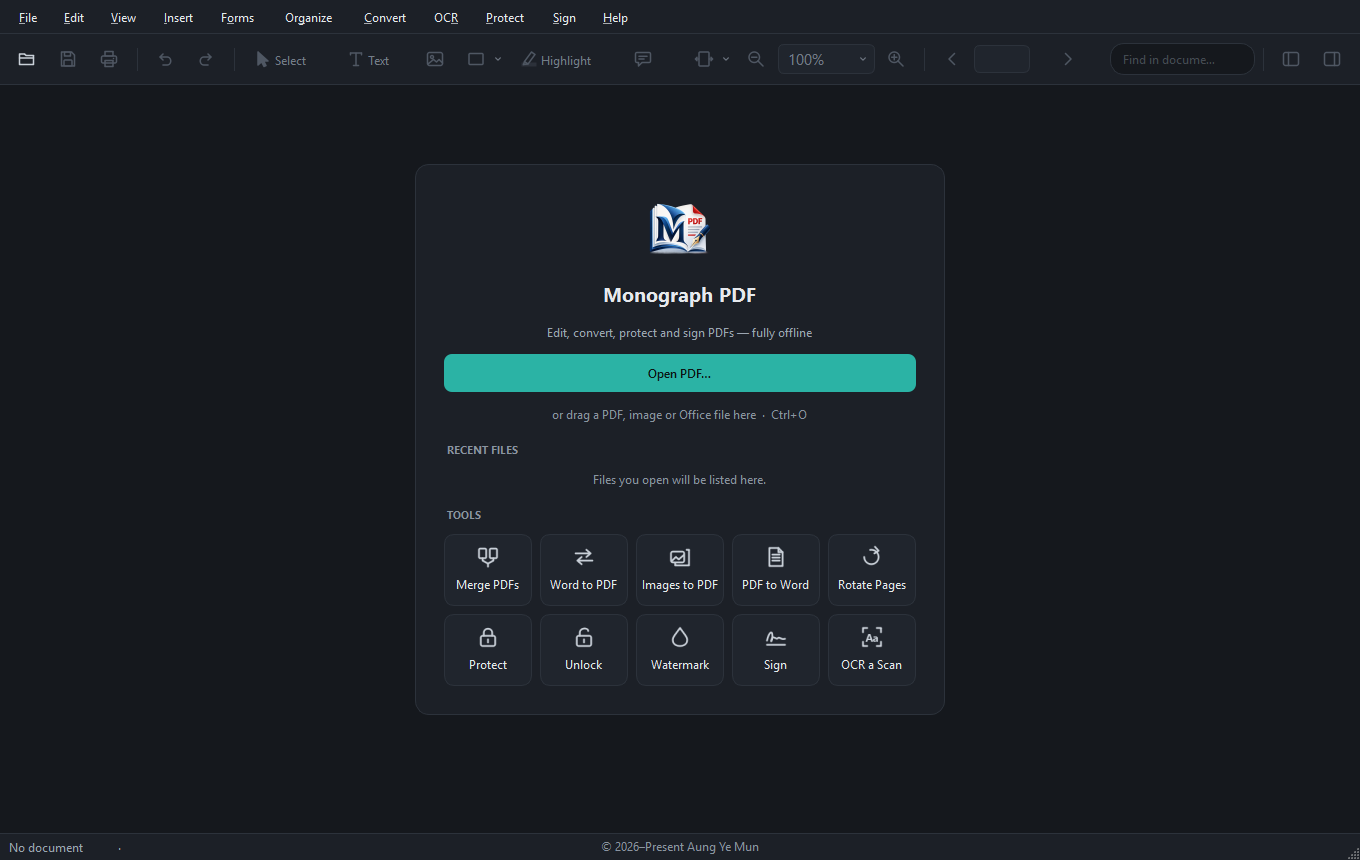
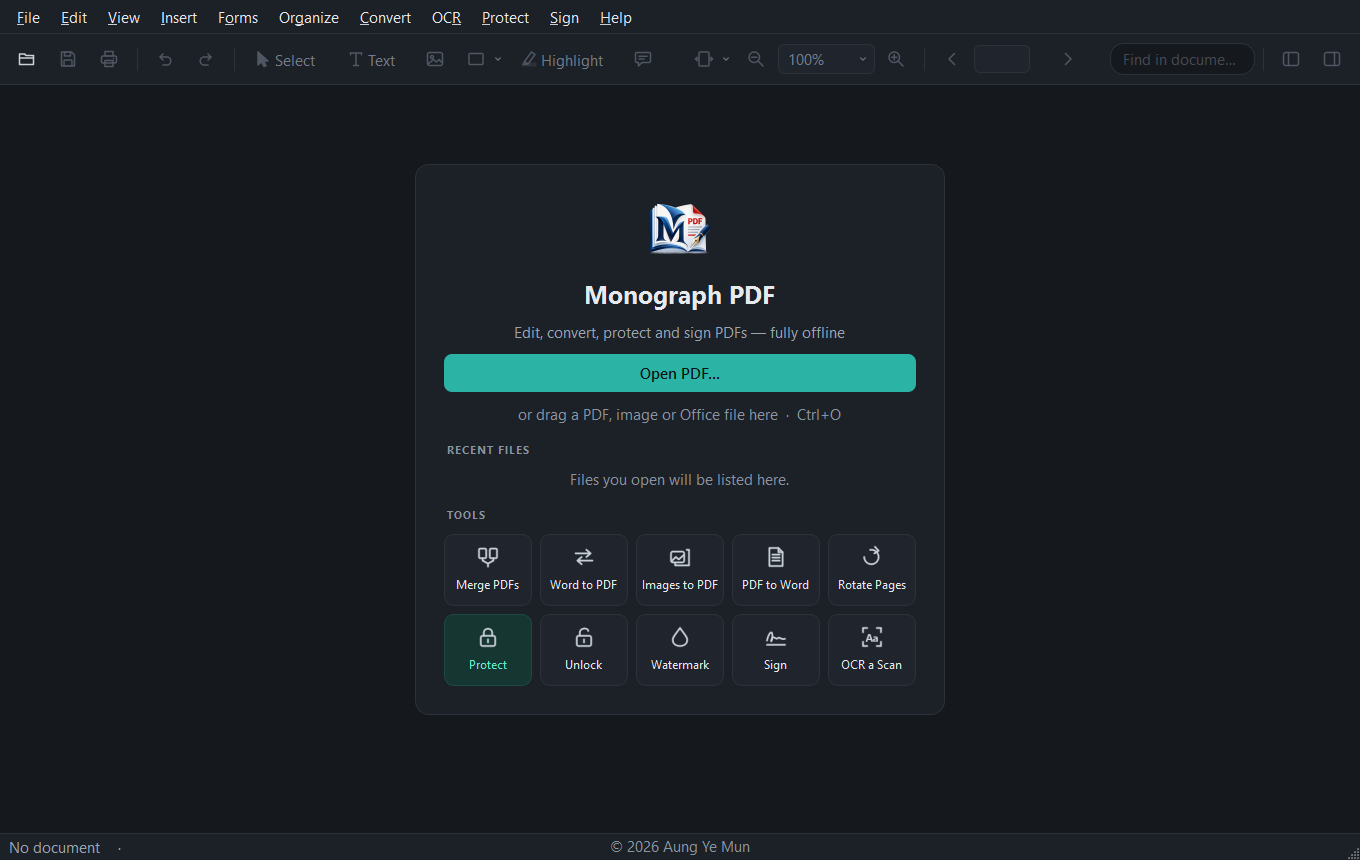
Use the copyright notice '© 2026 Aung Ye Mun' throughout
Update the status-bar footer, About and Windows file properties source, installer metadata, licensing header, documentation and tests; refresh the README screenshots.

diff --git a/tests/unit/test_product_meta.py b/tests/unit/test_product_meta.py
@@ -42,7 +42,7 @@ def test_canonical_identity_strings():
     assert DATA_FOLDER_NAME == "Monograph PDF"
     assert COPYRIGHT_OWNER == "Aung Ye Mun"
     assert COPYRIGHT_START_YEAR == 2026
-    assert COPYRIGHT_DISPLAY == "© 2026–Present Aung Ye Mun"
+    assert COPYRIGHT_DISPLAY == "© 2026 Aung Ye Mun"
     assert PRODUCT_LICENSE == "AGPL-3.0-or-later"
     assert PRODUCT_DESCRIPTION.startswith("Monograph PDF is an offline, privacy-first desktop application")
 
@@ -73,7 +73,7 @@ def test_pe_version_resource_strings():
         "FileDescription": "Monograph PDF",
         "FileVersion": v,
         "InternalName": "MonographPDF",
-        "LegalCopyright": "© 2026–Present Aung Ye Mun",
+        "LegalCopyright": "© 2026 Aung Ye Mun",
         "OriginalFilename": "MonographPDF.exe",
         "ProductName": "Monograph PDF",
         "ProductVersion": v,

diff --git a/ui/status_footer.py b/ui/status_footer.py
@@ -104,7 +104,7 @@ class AppStatusBar(QStatusBar):
         full = COPYRIGHT_DISPLAY
         if metrics.horizontalAdvance(full) <= max_width:
             return full
-        short = f"© {COPYRIGHT_START_YEAR}–Present {COPYRIGHT_OWNER}"
+        short = f"© {COPYRIGHT_START_YEAR} {COPYRIGHT_OWNER}"
         if metrics.horizontalAdvance(short) <= max_width:
             return short
         return metrics.elidedText(short, Qt.TextElideMode.ElideRight, max_width)

diff --git a/core/product_meta.py b/core/product_meta.py
@@ -31,7 +31,7 @@ REPOSITORY_NAME = "monograph-pdf"
 DATA_FOLDER_NAME = "Monograph PDF"
 COPYRIGHT_OWNER = "Aung Ye Mun"
 COPYRIGHT_START_YEAR = 2026
-COPYRIGHT_DISPLAY = "© 2026–Present Aung Ye Mun"
+COPYRIGHT_DISPLAY = "© 2026 Aung Ye Mun"
 
 PRODUCT_DESCRIPTION = (
     "Monograph PDF is an offline, privacy-first desktop application for viewing, editing, "

diff --git a/docs/BUILD_AND_RUNTIME.md b/docs/BUILD_AND_RUNTIME.md
@@ -49,7 +49,7 @@ powershell -ExecutionPolicy Bypass -File scripts/build_exe.ps1
 - PyInstaller output: `dist/MonographPDF/` (`MonographPDF.exe` + `_internal/`) — **onedir** for fast cold start (no onefile temp extraction)
 - A copy is also placed at the project root: `./MonographPDF.exe` plus `./_internal/` (a stale `./PDF_editor.exe` from an earlier internal build is removed)
 - Application icon: `resources/icons/windows/monograph_pdf.ico` (16, 24, 32, 48, 64, 128 and 256 px; embedded via `--icon`). `scripts/generate_branding_icons.py` makes it, the window/taskbar/About PNGs and the Setup wizard images from the canonical artwork `resources/icons/source/Monograph_PDF_logo.png` (the icon uses the emblem without the wordmark, scaled uniformly with Lanczos resampling, transparency kept); `scripts/prepare_logo.py` imports a new version of the artwork from the Downloads folder (Windows known folder) without changing the original
-- Windows file properties: `build/version_info.txt` from `scripts/make_version_info.py` + `core.product_meta.version_resource_strings()` — ProductName / FileDescription **Monograph PDF**, InternalName **MonographPDF**, OriginalFilename **MonographPDF.exe**, ProductVersion / FileVersion from `VERSION`, LegalCopyright **© 2026–Present Aung Ye Mun**; the release build compares the built exe with these values
+- Windows file properties: `build/version_info.txt` from `scripts/make_version_info.py` + `core.product_meta.version_resource_strings()` — ProductName / FileDescription **Monograph PDF**, InternalName **MonographPDF**, OriginalFilename **MonographPDF.exe**, ProductVersion / FileVersion from `VERSION`, LegalCopyright **© 2026 Aung Ye Mun**; the release build compares the built exe with these values
 - After PyInstaller, `scripts/packaging/check_release.py prune` removes bundled parts Monograph PDF never uses — Qt Network and its TLS / network-information / TUIO plugins, Qt Quick / QML and the virtual keyboard, Qt PDF, OpenCV's FFmpeg video plugin, software OpenGL (`opengl32sw.dll`) and Python's SSL module — and fails the build if a remaining DLL still imports one of them (checked with `pefile`)
 
 Version embedded in the app is always read from `VERSION` at runtime (bundled as data). Branding assets under `resources/icons/` are bundled offline (no downloads).

diff --git a/docs/TESTING.md b/docs/TESTING.md
@@ -52,7 +52,7 @@ Config: `pytest.ini` (`pythonpath = .`, `qt_api = pyside6`).
 
 `scripts\test_installer.ps1` tests a built `Setup.exe` on Windows (per-user install into `%LOCALAPPDATA%\MonographPDFInstallTest`; the app window and the User Guide appear briefly):
 
-1. Clean install with every task: files, no `logs` folder in the installation folder, no startup entries, scheduled tasks or services, `uninstall.exe` and its version information, `MonographPDF.exe` version resource (Monograph PDF / MonographPDF / MonographPDF.exe / version / © 2026–Present Aung Ye Mun), `DisplayIcon` → `MonographPDF.exe`, no earlier internal build file installed, **Installed apps** entry (`UninstallString` / `QuietUninstallString` → `uninstall.exe`), file-type and Open-with registrations, Start menu (**Monograph PDF**, **Monograph PDF User Guide** with `--user-guide`, no uninstall shortcut), desktop shortcut, Setup's self-check (including OCR, every bundled module importing and no network use; report in `%LOCALAPPDATA%\Monograph PDF\logs`), no development paths in the installed User Guide.
+1. Clean install with every task: files, no `logs` folder in the installation folder, no startup entries, scheduled tasks or services, `uninstall.exe` and its version information, `MonographPDF.exe` version resource (Monograph PDF / MonographPDF / MonographPDF.exe / version / © 2026 Aung Ye Mun), `DisplayIcon` → `MonographPDF.exe`, no earlier internal build file installed, **Installed apps** entry (`UninstallString` / `QuietUninstallString` → `uninstall.exe`), file-type and Open-with registrations, Start menu (**Monograph PDF**, **Monograph PDF User Guide** with `--user-guide`, no uninstall shortcut), desktop shortcut, Setup's self-check (including OCR, every bundled module importing and no network use; report in `%LOCALAPPDATA%\Monograph PDF\logs`), no development paths in the installed User Guide.
 2. Launch Monograph PDF with a document and the User Guide window; nothing is written into the installation folder, working files go to `%LOCALAPPDATA%\Monograph PDF`.
 3. A silent uninstall while Monograph PDF is running is refused and leaves the installation intact.
 4. Complete uninstall (`/REMOVEUSERDATA`) with a working file locked: the locked item is logged, user documents are untouched.

diff --git a/CHANGELOG.md b/CHANGELOG.md
@@ -58,7 +58,7 @@ These describe behaviour kept only so that machines that ran an earlier internal
 
 Details:
 
-- Program `MonographPDF.exe` (PE version resource: Monograph PDF / MonographPDF / MonographPDF.exe, © 2026–Present Aung Ye Mun), built into `dist\MonographPDF\`; release files `MonographPDF_<version>_Setup.exe`, `MonographPDF_<version>_Installer.zip` and `MonographPDF_<version>_Source.zip` (source folder `monograph-pdf/`). `SHA256SUMS.txt` lists `MonographPDF.exe`.
+- Program `MonographPDF.exe` (PE version resource: Monograph PDF / MonographPDF / MonographPDF.exe, © 2026 Aung Ye Mun), built into `dist\MonographPDF\`; release files `MonographPDF_<version>_Setup.exe`, `MonographPDF_<version>_Installer.zip` and `MonographPDF_<version>_Source.zip` (source folder `monograph-pdf/`). `SHA256SUMS.txt` lists `MonographPDF.exe`.
 - New logo (open book with “M”, PDF page and pen) from `resources/icons/source/Monograph_PDF_logo.png`; `scripts/generate_branding_icons.py` makes `monograph_pdf.ico` (16–256 px), the window, taskbar, Start page and About icons and the Setup wizard images from it. The PDF Editor logo is no longer an application resource.
 - Default folders `C:\Program Files\Monograph PDF` / `%LOCALAPPDATA%\Programs\Monograph PDF`; data in `%APPDATA%\Monograph PDF` and `%LOCALAPPDATA%\Monograph PDF`; Start menu folder **Monograph PDF** with **Monograph PDF** and **Monograph PDF User Guide**.
 - Windows registration uses `MonographPDF.exe`, ProgIDs `MonographPDF.Document` / `MonographPDF.Convertible` and the Default apps name **Monograph PDF**; Setup still never makes itself the default PDF app. Help menu: **Make Monograph PDF the Default PDF App…**.

diff --git a/INSTALLATION.md b/INSTALLATION.md
@@ -160,4 +160,4 @@ Source setup, tests, release builds and packaging are documented in [Build and R
 
 ## License
 
-© 2026–Present Aung Ye Mun. Monograph PDF is licensed under the GNU Affero General Public License v3.0 or later (**AGPL-3.0-or-later**). See [LICENSE.md](LICENSE.md). Corresponding Monograph PDF release source, including application, build, installer, documentation and release tests, together with the corresponding source of the bundled AGPL, GPL and LGPL components, is published as `MonographPDF_{version}_Source.zip` beside the installer. Local personal-document validation utilities are excluded.
+© 2026 Aung Ye Mun. Monograph PDF is licensed under the GNU Affero General Public License v3.0 or later (**AGPL-3.0-or-later**). See [LICENSE.md](LICENSE.md). Corresponding Monograph PDF release source, including application, build, installer, documentation and release tests, together with the corresponding source of the bundled AGPL, GPL and LGPL components, is published as `MonographPDF_{version}_Source.zip` beside the installer. Local personal-document validation utilities are excluded.

diff --git a/LICENSE.md b/LICENSE.md
@@ -1,7 +1,7 @@
 # Monograph PDF License
 
 **Monograph PDF**  
-Copyright © 2026–Present Aung Ye Mun
+Copyright © 2026 Aung Ye Mun
 
 This program is free software: you may redistribute it and/or modify it under the terms of the
 GNU Affero General Public License as published by the Free Software Foundation, either version 3

diff --git a/README.md b/README.md
@@ -173,7 +173,7 @@ Design, development, testing, documentation, packaging, and maintenance.
 
 ## License
 
-© 2026–Present Aung Ye Mun.
+© 2026 Aung Ye Mun.
 
 Monograph PDF is free software licensed under the **GNU Affero General Public License v3.0 or later** (`AGPL-3.0-or-later`).
 
